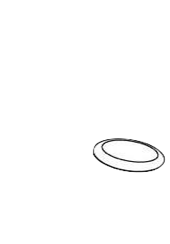
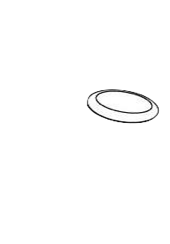
better marquee

Changed region(s): [[0.5, 0.3443, 0.9412, 0.5164], [0.5588, 0.5451, 0.9706, 0.7172], [0.5294, 0.6025, 0.5882, 0.6598]]

diff --git a/assets/main.scss b/assets/main.scss
@@ -14,3 +14,69 @@ $brand-color: red;
   float: right;
   color: blue;
 }
+
+.animated_rainbow_1 {
+  background-image: -webkit-linear-gradient(left, #f00, #ff2b00, #f50, #ff8000, #fa0, #ffd500, #ff0, #d4ff00, #af0, #80ff00, #5f0, #2bff00, #0f0, #00ff2a, #0f5, #00ff80, #0fa, #00ffd5, #0ff, #00d5ff, #0af, #0080ff, #05f, #002aff, #00f, #2b00ff, #50f, #8000ff, #a0f, #d400ff, #f0f, #ff00d4, #f0a, #ff0080, #f05, #ff002b, #f00);
+  -webkit-animation: animatedBackground_a 5s linear infinite alternate;
+  -webkit-background-clip: text;
+  -webkit-text-fill-color: #0000;
+  background-clip: text;
+}
+
+@keyframes animatedBackground_a {
+  0% { background-position: 0 0 }
+  100% { background-position: -500px 0 }
+}
+
+.marquee {
+  height: 300px;
+  overflow: hidden;
+  position: relative;
+}
+
+.marquee div {
+  position: absolute;
+  width: 100%;
+  height: 100%;
+  margin: 0;
+  line-height: 50px;
+  text-align: center;
+  -moz-transform: translateX(100%);
+  -webkit-transform: translateX(100%);
+  transform: translateX(100%);
+  -moz-animation: scroll-right 2s linear infinite;
+  -webkit-animation: scroll-right 2s linear infinite;
+  animation: scroll-right 18s linear infinite;
+}
+
+
+@-moz-keyframes scroll-right {
+  0% {
+      -moz-transform: translateX(-100%);
+  }
+  100% {
+      -moz-transform: translateX(100%);
+  }
+}
+
+@-webkit-keyframes scroll-right {
+  0% {
+      -webkit-transform: translateX(-100%);
+  }
+  100% {
+      -webkit-transform: translateX(100%);
+  }
+}
+
+@keyframes scroll-right {
+  0% {
+      -moz-transform: translateX(-100%);
+      -webkit-transform: translateX(-100%);
+      transform: translateX(-100%);
+  }
+  100% {
+      -moz-transform: translateX(100%);
+      -webkit-transform: translateX(100%);
+      transform: translateX(100%);
+  }
+}

diff --git a/_includes/header.html b/_includes/header.html
@@ -1,7 +1,20 @@
 <header class="site-header">
 
-  <marquee behavior="scroll" direction="right" width="100%" scrollamount="14">
-    <img src="/assets/santa-wider-no-disc.png"><marquee behavior="scroll" direction="right" width="100%" scrollamount="4" ><img src="/assets/disc.png"></marquee>
+  <div class="marquee">
+    <div>
+      <div class="marquee">
+        <div class="faster"><img src="/assets/disc.png"></div>
+      </div>
+      <img src="/assets/santa-wider-no-disc.png">
+    </div>
+  </div>
+
+  <!-- old marquee -->
+  <!-- <marquee behavior="scroll" direction="right" width="100%" scrollamount="12">
+    <img src="/assets/santa-wider-no-disc.png">
+    <marquee behavior="scroll" direction="right" width="100%" scrollamount="4">
+      <img src="/assets/disc.png">
+    </marquee> -->
   </marquee>
 
     <div class="wrapper">

diff --git a/main.scss b/main.scss
@@ -3,16 +3,3 @@
 ---
 
 @import "minima";
-
-.animated_rainbow_1 {
-    background-image: -webkit-linear-gradient(left, #f00, #ff2b00, #f50, #ff8000, #fa0, #ffd500, #ff0, #d4ff00, #af0, #80ff00, #5f0, #2bff00, #0f0, #00ff2a, #0f5, #00ff80, #0fa, #00ffd5, #0ff, #00d5ff, #0af, #0080ff, #05f, #002aff, #00f, #2b00ff, #50f, #8000ff, #a0f, #d400ff, #f0f, #ff00d4, #f0a, #ff0080, #f05, #ff002b, #f00);
-    -webkit-animation: animatedBackground_a 5s linear infinite alternate;
-    -webkit-background-clip: text;
-    -webkit-text-fill-color: #0000;
-    background-clip: text;
-}
-
-@keyframes animatedBackground_a {
-    0% { background-position: 0 0 }
-    100% { background-position: -500px 0 }
-}
